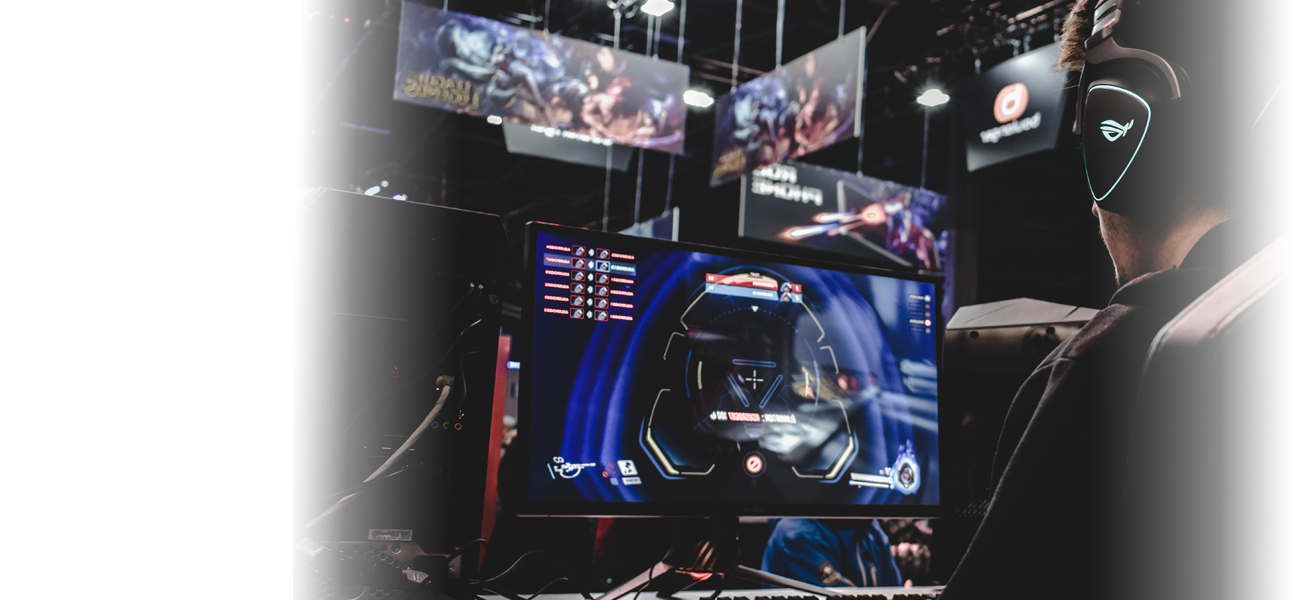
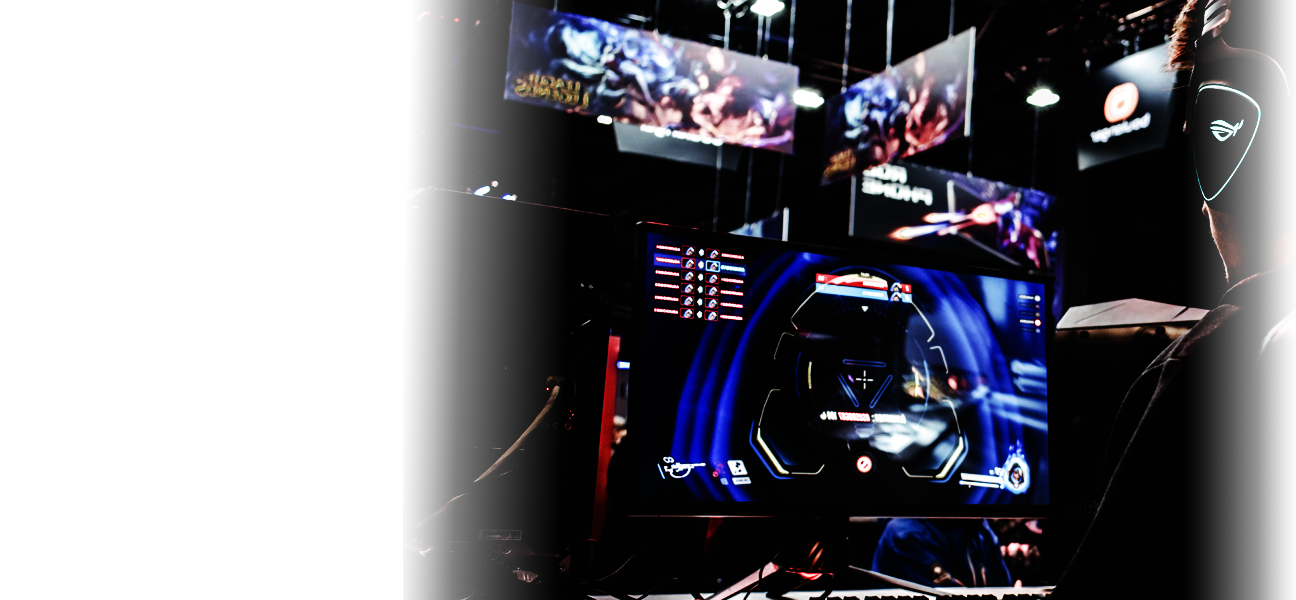
Fixed carousel bug and and added carousel captions

diff --git a/wwwroot/css/site.css b/wwwroot/css/site.css
@@ -34,15 +34,19 @@ html {
 	background-image: url('../images/slides/slide1.png');
 }
 
-.slider-image {
-	position: relative;
-	z-index: 0;
+.hero-slider-img {
+	filter: brightness(0.6);
 }
 
-.slider-title,
-.slider-content {
-	position: relative;
-	z-index: 1;
+.carousel-caption {
+	top: 50%;
+	transform: translateY(-50%);
+	bottom: initial;
+	display: flex;
+	flex-direction: column;
+	justify-content: center;
+	align-items: start;
+	text-align: left;
 }
 
 /** Game Slide Animation Section*/
